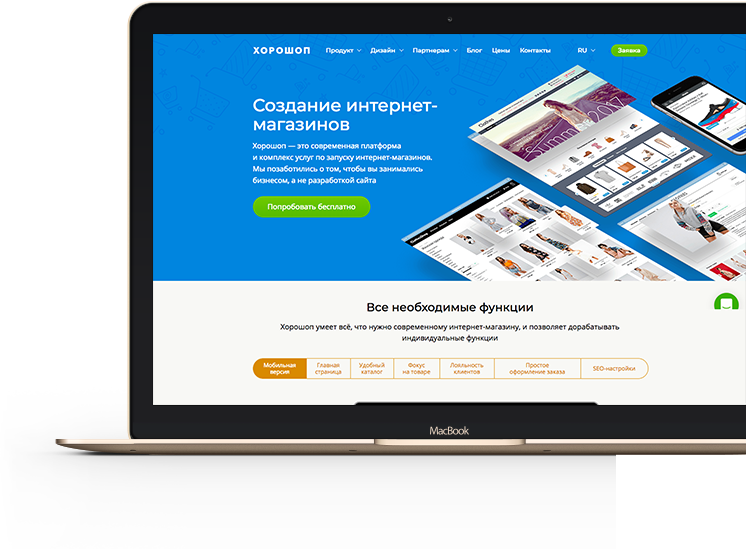
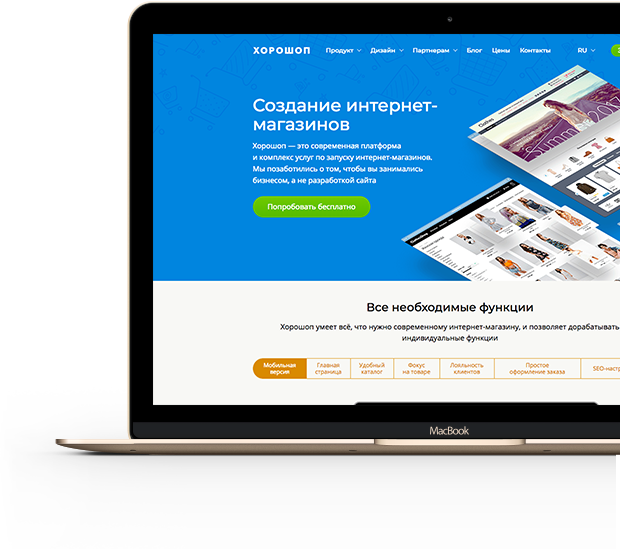
add html code for section: general services and add style for it

diff --git a/src/index.html b/src/index.html
@@ -72,7 +72,7 @@
                     <a href="#" class="btn btn-primary">Начни продавать в интернете уже сегодня!</a>
                 </div>
                 <div class="col-lg-5 header__img">
-                    <!-- <img src="img/macbook.png" alt="Macbook"> -->
+                    <img class="w-100" src="img/macbook.png" alt="Macbook">
                 </div>
                 <div class="col-1 mx-auto header__icon">
                     <a href="#about">
@@ -169,6 +169,69 @@
         </div>
     </section>
     <!-- End Section: Get call Line -->
+
+    <!-- Start Section: General Services -->
+    <section id="general-services">
+        <div class="container">
+            <div class="row">
+                <div class="col-4 services__title-text">
+                    <h4>Общие услуги</h4>
+                </div>
+            </div>
+            <div class="row">
+                <div class="col-lg-4">
+                    <div class="service__item py-4 mx-auto text-center">
+                        <h4>Создание интернет - магазина с нуля</h4>
+                        <img clas="w-100" src="img/shopping-icon.png" alt="Services Item">
+                        <a href="#" class="btn d-block mx-auto">Узнать подробнее</a>
+                    </div>
+                </div>
+                <div class="col-lg-4">
+                    <div class="service__item py-4 mx-auto text-center">
+                        <h4>Создание интернет - магазина с нуля</h4>
+                        <img clas="w-100" src="img/shopping-icon.png" alt="Services Item">
+                        <a href="#" class="btn d-block mx-auto">Узнать подробнее</a>
+                    </div>
+                </div>
+                <div class="col-lg-4">
+                    <div class="service__item py-4 mx-auto text-center">
+                        <h4>Создание интернет - магазина с нуля</h4>
+                        <img clas="w-100" src="img/shopping-icon.png" alt="Services Item">
+                        <a href="#" class="btn d-block mx-auto">Узнать подробнее</a>
+                    </div>
+                </div>
+                <div class="col-lg-4">
+                    <div class="service__item py-4 mx-auto text-center">
+                        <h4>Создание интернет - магазина с нуля</h4>
+                        <img clas="w-100" src="img/shopping-icon.png" alt="Services Item">
+                        <a href="#" class="btn d-block mx-auto">Узнать подробнее</a>
+                    </div>
+                </div>
+                <div class="col-lg-4">
+                    <div class="service__item py-4 mx-auto text-center">
+                        <h4>Создание интернет - магазина с нуля</h4>
+                        <img clas="w-100" src="img/shopping-icon.png" alt="Services Item">
+                        <a href="#" class="btn d-block mx-auto">Узнать подробнее</a>
+                    </div>
+                </div>
+                <div class="col-lg-4">
+                    <div class="service__item py-4 mx-auto text-center">
+                        <h4>Создание интернет - магазина с нуля</h4>
+                        <img clas="w-100" src="img/shopping-icon.png" alt="Services Item">
+                        <a href="#" class="btn d-block mx-auto">Узнать подробнее</a>
+                    </div>
+                </div>
+            </div>
+            <div class="row">
+                <div class="col-2 mx-auto service__more-btn">
+                    <a href="#" class="btn d-block mx-auto">
+                        Показать еще
+                    </a>
+                </div>
+            </div>
+        </div>
+    </section>
+    <!-- End Section: General Services -->
 
     <!-- Latest compiled and minified JQuery -->
     <script src="js/jquery-3.3.1.min.js"></script>

diff --git a/src/css/main.css b/src/css/main.css
@@ -81,7 +81,10 @@ nav.navbar {
     font-weight: 400; }
 
 header {
-  margin-top: 85px; }
+  margin-top: 85px;
+  background-image: url(../img/header-bg.png);
+  background-size: cover;
+  background-position: center; }
   header .header__showcase-text {
     padding-top: 160px; }
     header .header__showcase-text h1 {
@@ -242,6 +245,90 @@ header {
     animation: Gradient 3s ease infinite;
     font-size: 22px;
     padding: 10px 20px; }
+
+@-webkit-keyframes Gradient {
+  0% {
+    background-position: 0% 50%; }
+  50% {
+    background-position: 100% 50%; }
+  100% {
+    background-position: 0% 50%; } }
+
+@-moz-keyframes Gradient {
+  0% {
+    background-position: 0% 50%; }
+  50% {
+    background-position: 100% 50%; }
+  100% {
+    background-position: 0% 50%; } }
+
+@keyframes Gradient {
+  0% {
+    background-position: 0% 50%; }
+  50% {
+    background-position: 100% 50%; }
+  100% {
+    background-position: 0% 50%; } }
+
+#general-services {
+  margin-top: 95px; }
+  #general-services .services__title-text h4 {
+    font-family: 'Museo2';
+    font-size: 40px;
+    color: #000;
+    letter-spacing: -1.6px;
+    margin-bottom: 0; }
+    #general-services .services__title-text h4:before {
+      content: '';
+      position: absolute;
+      height: 100%;
+      width: 6px;
+      background-color: #00a7ff;
+      left: 0;
+      top: 0; }
+  #general-services .service__item {
+    max-width: 260px;
+    box-shadow: 1px 2px 6px 1px rgba(202, 200, 200, 0.54);
+    border: 1px solid #efeded;
+    margin-top: 75px; }
+    #general-services .service__item h4 {
+      font-family: 'Museo0';
+      font-size: 21px;
+      color: #000;
+      letter-spacing: -0.84px;
+      margin-bottom: 0;
+      padding-bottom: 25px;
+      position: relative; }
+    #general-services .service__item img {
+      padding-bottom: 28px; }
+    #general-services .service__item a.btn {
+      color: #ffffff;
+      font-family: "Museo1";
+      font-size: 21px;
+      font-weight: 400;
+      max-width: 215px;
+      border-radius: 28px;
+      background-color: #00a7ff;
+      letter-spacing: -1px; }
+  #general-services .service__more-btn {
+    margin-top: 45px; }
+    #general-services .service__more-btn a {
+      font-family: "Open Sans", sans-serif;
+      background: #3c7ac2;
+      background: linear-gradient(to right, #109de1, #3c7ac2);
+      color: #fff;
+      font-size: 14px;
+      border-radius: 5px;
+      border: unset;
+      background-size: 400% 400%;
+      -webkit-animation: Gradient 3s ease infinite;
+      -moz-animation: Gradient 3s ease infinite;
+      animation: Gradient 3s ease infinite;
+      font-family: "Museo1";
+      font-size: 20px;
+      letter-spacing: -0.8px;
+      color: #e2e1e1;
+      border-radius: 35px; }
 
 @-webkit-keyframes Gradient {
   0% {

diff --git a/src/sass/layout/_general-services.scss b/src/sass/layout/_general-services.scss
@@ -1,0 +1,60 @@
+#general-services {
+    margin-top: 95px;
+    .services__title-text {
+        h4 {
+            font-family: 'Museo2';
+            font-size: 40px;
+            color: #000;
+            letter-spacing: -1.6px;
+            margin-bottom: 0;
+            &:before {
+                content: '';
+                position: absolute;
+                height: 100%;
+                width: 6px;
+                background-color: #00a7ff;
+                left: 0;
+                top: 0;
+            }
+        }
+    }
+    .service__item {
+        max-width: 260px;
+        box-shadow: 1px 2px 6px 1px rgba(202, 200, 200, 0.54);
+        border: 1px solid #efeded;
+        margin-top: 75px;
+        h4 {
+            font-family: 'Museo0'; // Sans Cyrl -300
+            font-size: 21px;
+            color: #000;
+            letter-spacing: -0.84px;
+            margin-bottom: 0;
+            padding-bottom: 25px;
+            position: relative;
+        }
+        img {
+            padding-bottom: 28px;
+        }
+        a.btn {
+            color: #ffffff;
+            font-family: "Museo1";
+            font-size: 21px;
+            font-weight: 400;
+            max-width: 215px;
+            border-radius: 28px;
+            background-color: #00a7ff;
+            letter-spacing: -1px;
+        }
+    }
+    .service__more-btn {
+        margin-top: 45px;
+        a {
+            @include gradient-btn-animation;
+            font-family: "Museo1";
+            font-size: 20px;
+            letter-spacing: -0.8px;
+            color: #e2e1e1;
+            border-radius: 35px;
+        }
+    }
+}

diff --git a/src/sass/layout/_header.scss b/src/sass/layout/_header.scss
@@ -1,6 +1,9 @@
 $primary-text-color: #00a7ff;
 header {
     margin-top: 85px;
+    background-image: url(../img/header-bg.png);
+    background-size: cover;
+    background-position: center;
     .header__showcase-text {
         padding-top: 160px;
         h1 {

diff --git a/src/sass/main.scss b/src/sass/main.scss
@@ -14,6 +14,7 @@
 @import 'layout/_features';
 @import 'layout/_about';
 @import 'layout/_get-call-line';
+@import 'layout/_general-services';
 @import 'layout/_footer';
 // ======================= //
 // ===== Pages Folder====== //
